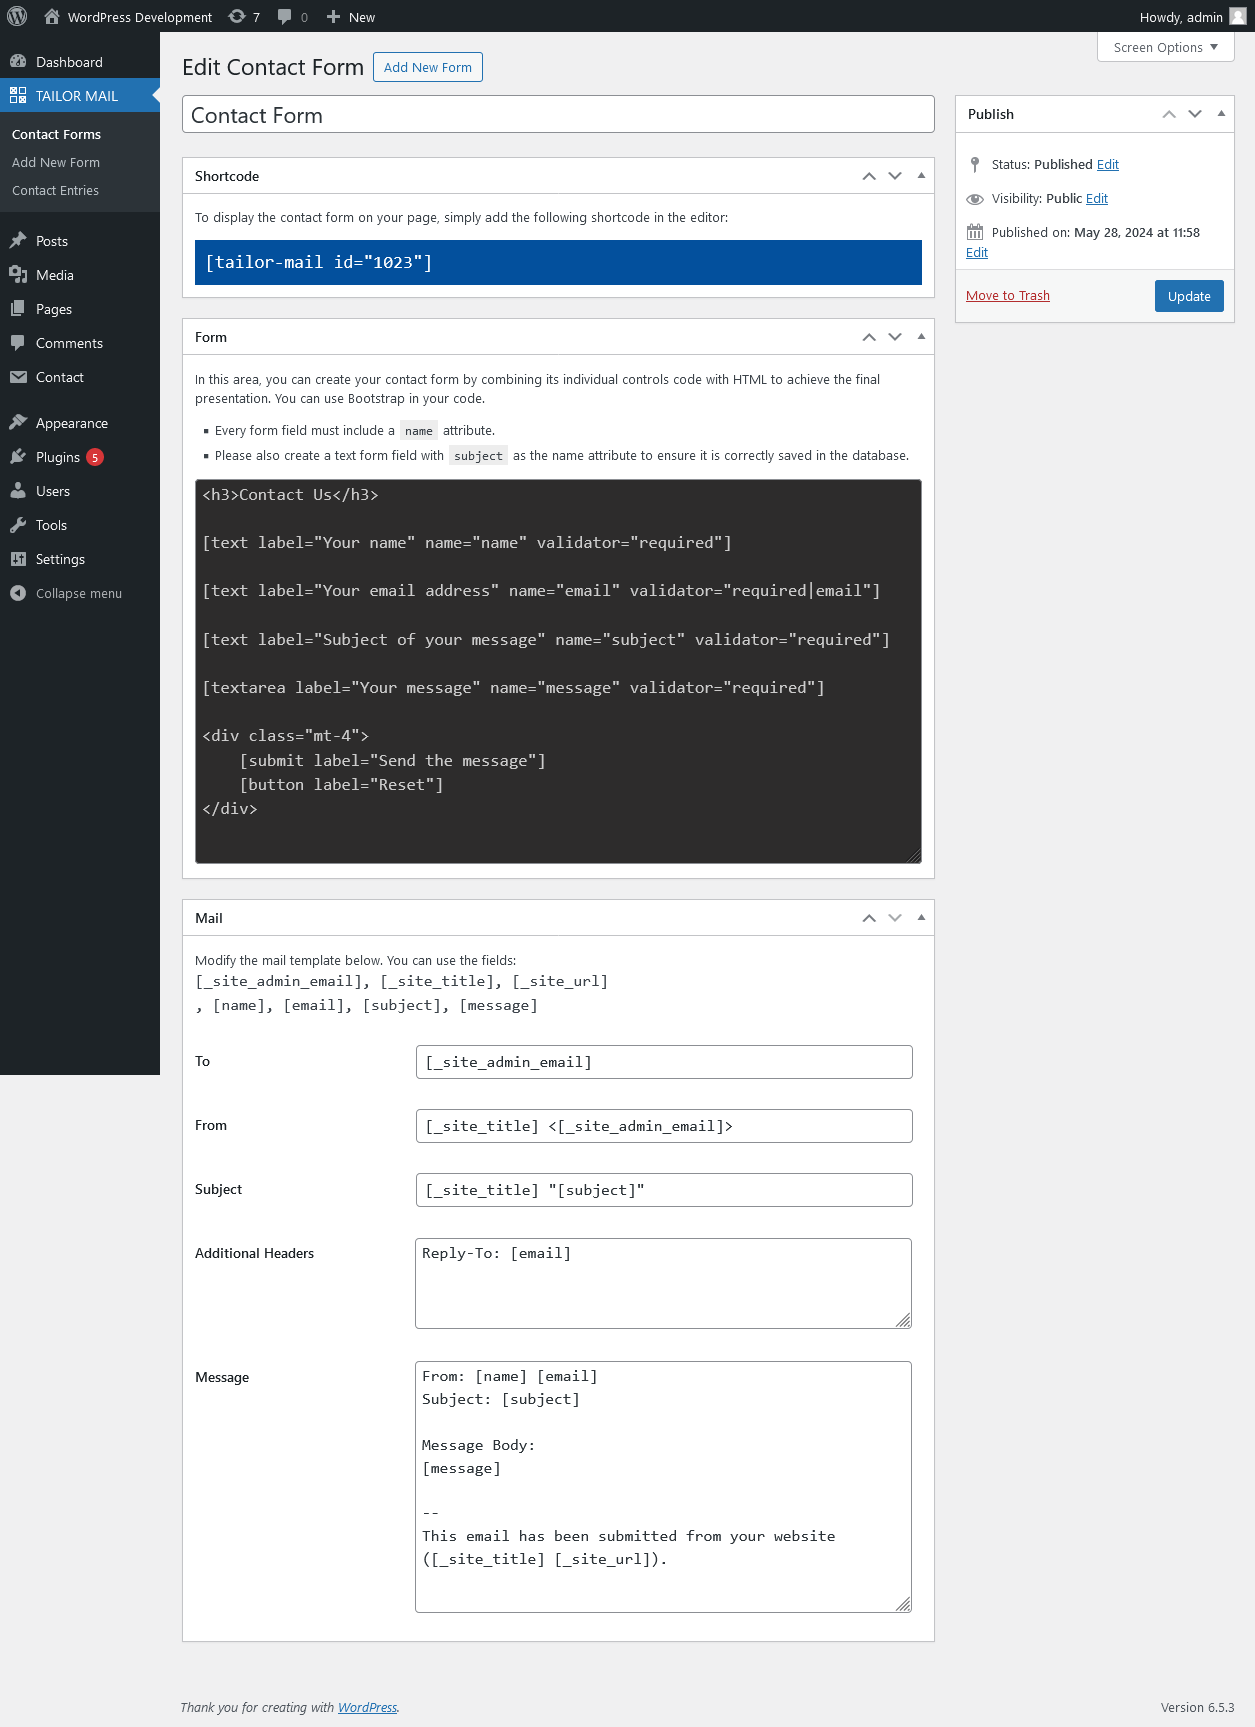
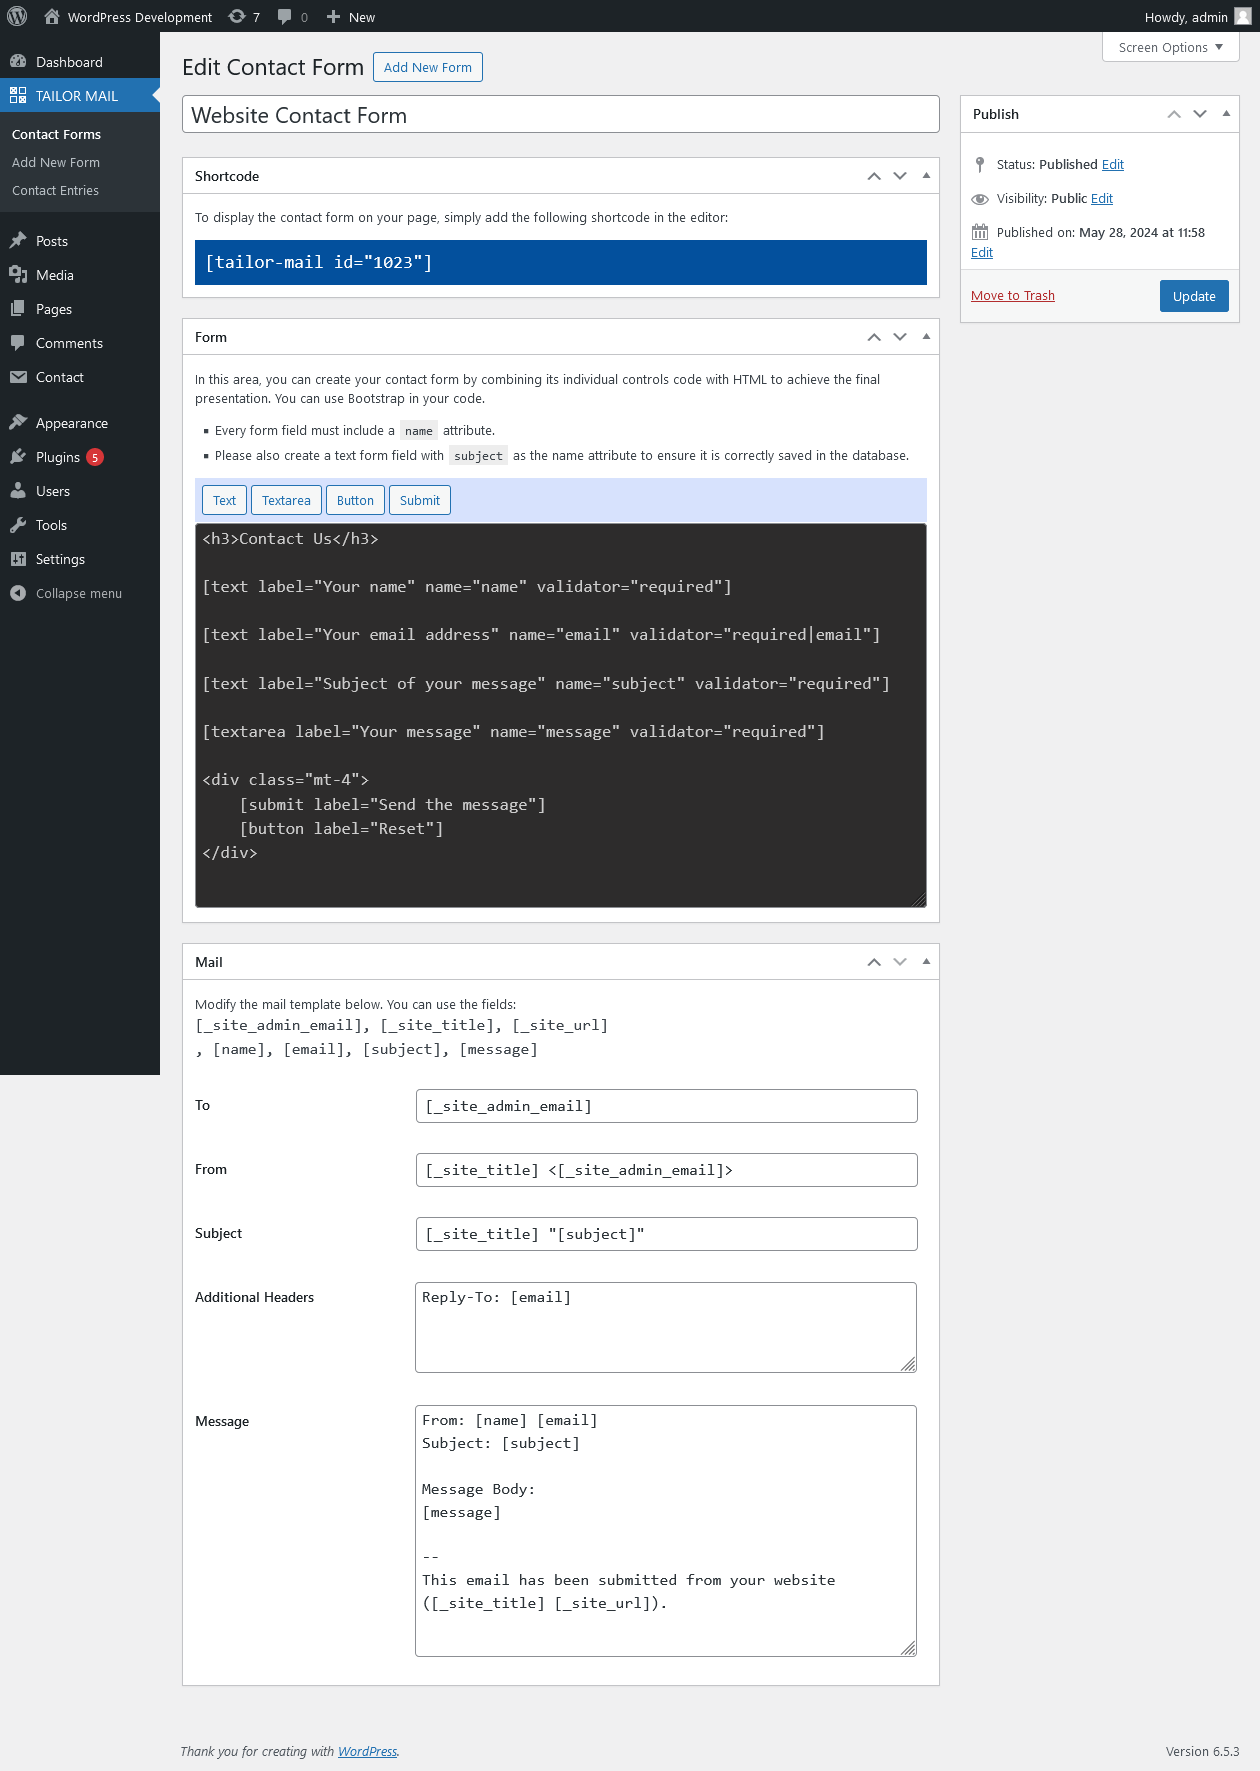
(docs:challenge_02_02) update documentation

diff --git a/challenge_02/task_02/README.md b/challenge_02/task_02/README.md
@@ -218,6 +218,16 @@ Here are some useful validation rules you can use:
 You can view all the available validation rules by visiting the [rakit/validation](https://github.com/rakit/validation) 
 documentation on GitHub.
 
+#### Using the "FORM FIELD WIZARD"
+
+Retaining all the syntaxes of the pseudo-shortcode attributes and validators can be challenging. 
+To simplify this, you can use the "Form Field Wizard", which provides an interface to easily generate each 
+pseudo-shortcode. To access the wizard, click on the toolbar above the contact form code editor and 
+select the pseudo-shortcode.
+
+![Contact Form Code Editor](./docs/contact_form_code_editor.png)
+
+![Form Field Wizard](./docs/form_field_wizard.png)
 
 #### Adding programmatically a field to an existing contact form
 
